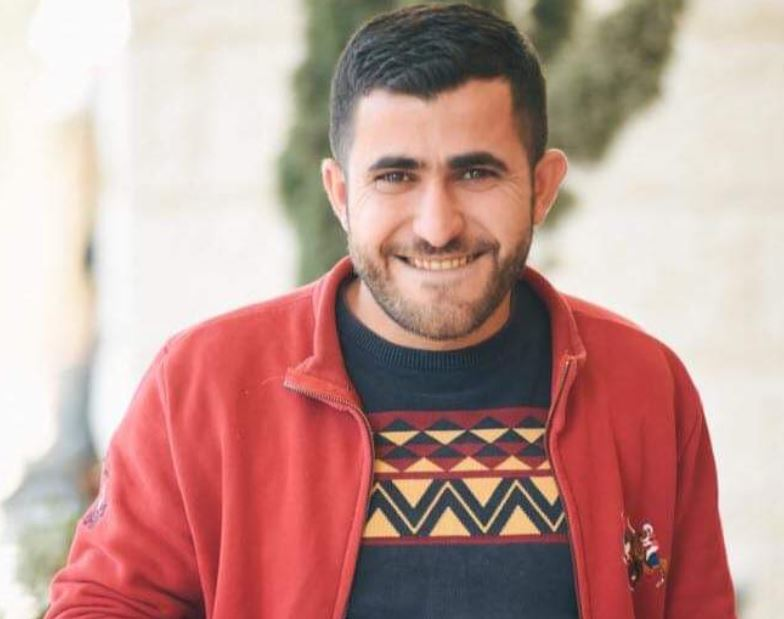
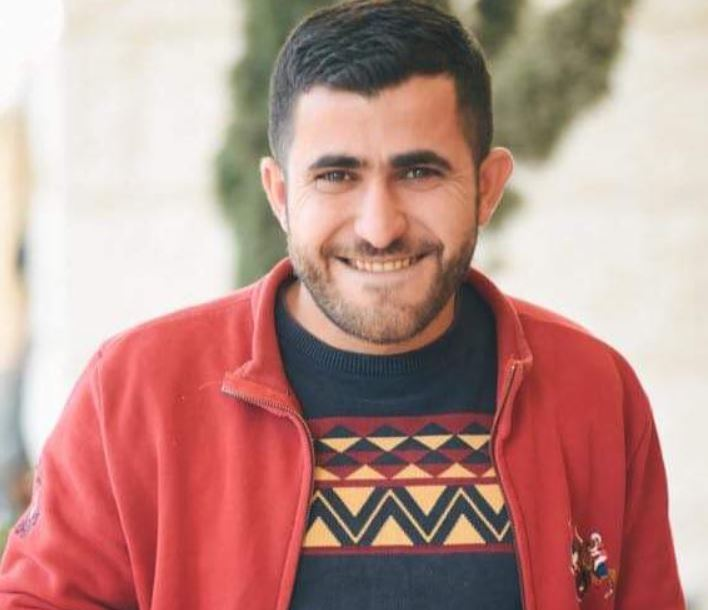
edit some styles

diff --git a/index.html b/index.html
@@ -26,7 +26,7 @@
 <body>
     <div id="sidenav" class="left-side">
         <a id="close" onclick="closenav()"><i class="fas fa-times"></i></a>
-        <img src="imgs/me.jpg" alt="me">
+        <img src="imgs/me.jpg" class="rounded-circle" alt="me">
         <h3>Address</h3>
         <p>Kufr-Zibad,Tulkarm,Palestine</p>
         <h3>Date of Birth</h3>
@@ -34,9 +34,9 @@
         <h3>Email</h3>
         <p>Alsalem.mahdi94@gmail.com</p>
         <h3>Phone</h3>
-        <p>059-5580244</p>
+        <p>0595580244</p>
 
-        <h3>Accounts:</h3>
+        <h3>Accounts</h3>
         <div class="social mb-3 col-12  d-flex flex-row justify-content-center text-center">
 
             <div><a href="https://www.facebook.com/mahdi.alsalem.35" target="_blank"><i class="fab fa-facebook"></i></a>
@@ -51,18 +51,18 @@
     </div>
     <div id="main">
         <a id="open" onclick="opennav()"><i class="fas fa-bars"> <span>Basic info</span></i></a>
-        <h1 class="text-center mt-3" style="color: black">Mahdi Alsalem</h1>
+        <h1 class="text-center mt-3 font-weight-bold" style="color: black">Mahdi Alsalem</h1>
         <section class="summary mt-5">
             <h2 style="border-bottom: 2px solid;">Summary</h2>
-            <p class="text-left mt-3">
+            <p class="text-left mt-3 pl-3 ml-1">
                 I am Mahdi Alsalem , a Teaching & Research Assistant at Birzeit university since
                 2019 ,Graduated from the same university with a bachelor degree in electrical engineering field with a
                 very good GPA.
                 I am looking forward to shift my career to be a Full Stack developer,to achieve this goal i started with
-                an online front end developement course with Xteam Company from Egypt,
-                througout this course i learned HTML,CSS,Bootstrap,JavaScript and i worked on some dummy projects
-                -which you can find in the project section-, also iam learning React-Js with a Course from Udemy
-                company.
+                an online front end developement course at Xteam institute from Egypt and a react/js online course at
+                UDEMY
+                throughout these online courses i learnd html,css,bootstrap,javascript basics,API,react including
+                react-hooks,react-redux,react-router and nextjs and i worked on some dummy apps and projects
                 <br>
                 As a next step, iam looking for a practical training in this
                 field , and i hope you can help me to achieve that, so i can realize my dream
@@ -93,7 +93,7 @@
             <h2 style="border-bottom: 2px solid;">Education</h2>
             <div class="d-flex  mt-3 flex-row justify-content-center justify-content-lg-between"
                 style="font-weight:900 ;">
-                <p class="col-9 col-md-8 col-lg-10 text-left ml-4 ml-md-0">React/Js
+                <p class="col-9 col-md-8 col-lg-10 text-left ml-5 ml-md-0">React/Js
                     (basics,hooks,API,react-redux,react-routing,next.js)</p>
                 <p class="col-4">2022</p>
             </div>
@@ -105,7 +105,7 @@
                     (html,css,bootstrap,js,react)</p>
                 <p class="col-4">2021</p>
             </div>
-            <p class="ml-2 ml-md-4"> At Xteam Institute, ,Egypt</p>
+            <p class="ml-3 ml-md-4"> At Xteam Institute, ,Egypt</p>
 
             <div class="d-flex  mt-3 flex-row justify-content-center justify-content-lg-between"
                 style="font-weight:900 ;">
@@ -118,7 +118,7 @@
 
 
             <div class="d-flex flex-row justify-content-center justify-content-lg-between" style="font-weight:900 ;">
-                <p class="col-9 col-md-8 col-lg-10 ml-4 ml-md-0">General Secondary Certificate Exam (Tawjihi),
+                <p class="col-9 col-md-8 col-lg-10 ml-5 ml-md-0">General Secondary Certificate Exam (Tawjihi),
                     Scientific Stream.
                 </p>
                 <p class="col-4">2012</p>

diff --git a/style.css b/style.css
@@ -18,7 +18,6 @@ body{
     left:0;
     width:0%;
     height:100%;
-    background-color: rgb(191, 196, 199);
     background-color: rgba(0, 0, 0, 0.95); /* Black w/opacity */
     text-align: center;
     overflow-x: hidden;
@@ -28,8 +27,7 @@ body{
 }
 .left-side img{
     margin-top: 20px;
-    width:60%;
-    border-radius: 50%;     /*circle image*/
+    width:70%;
 }
 .left-side p{
     font-size: 14px;
